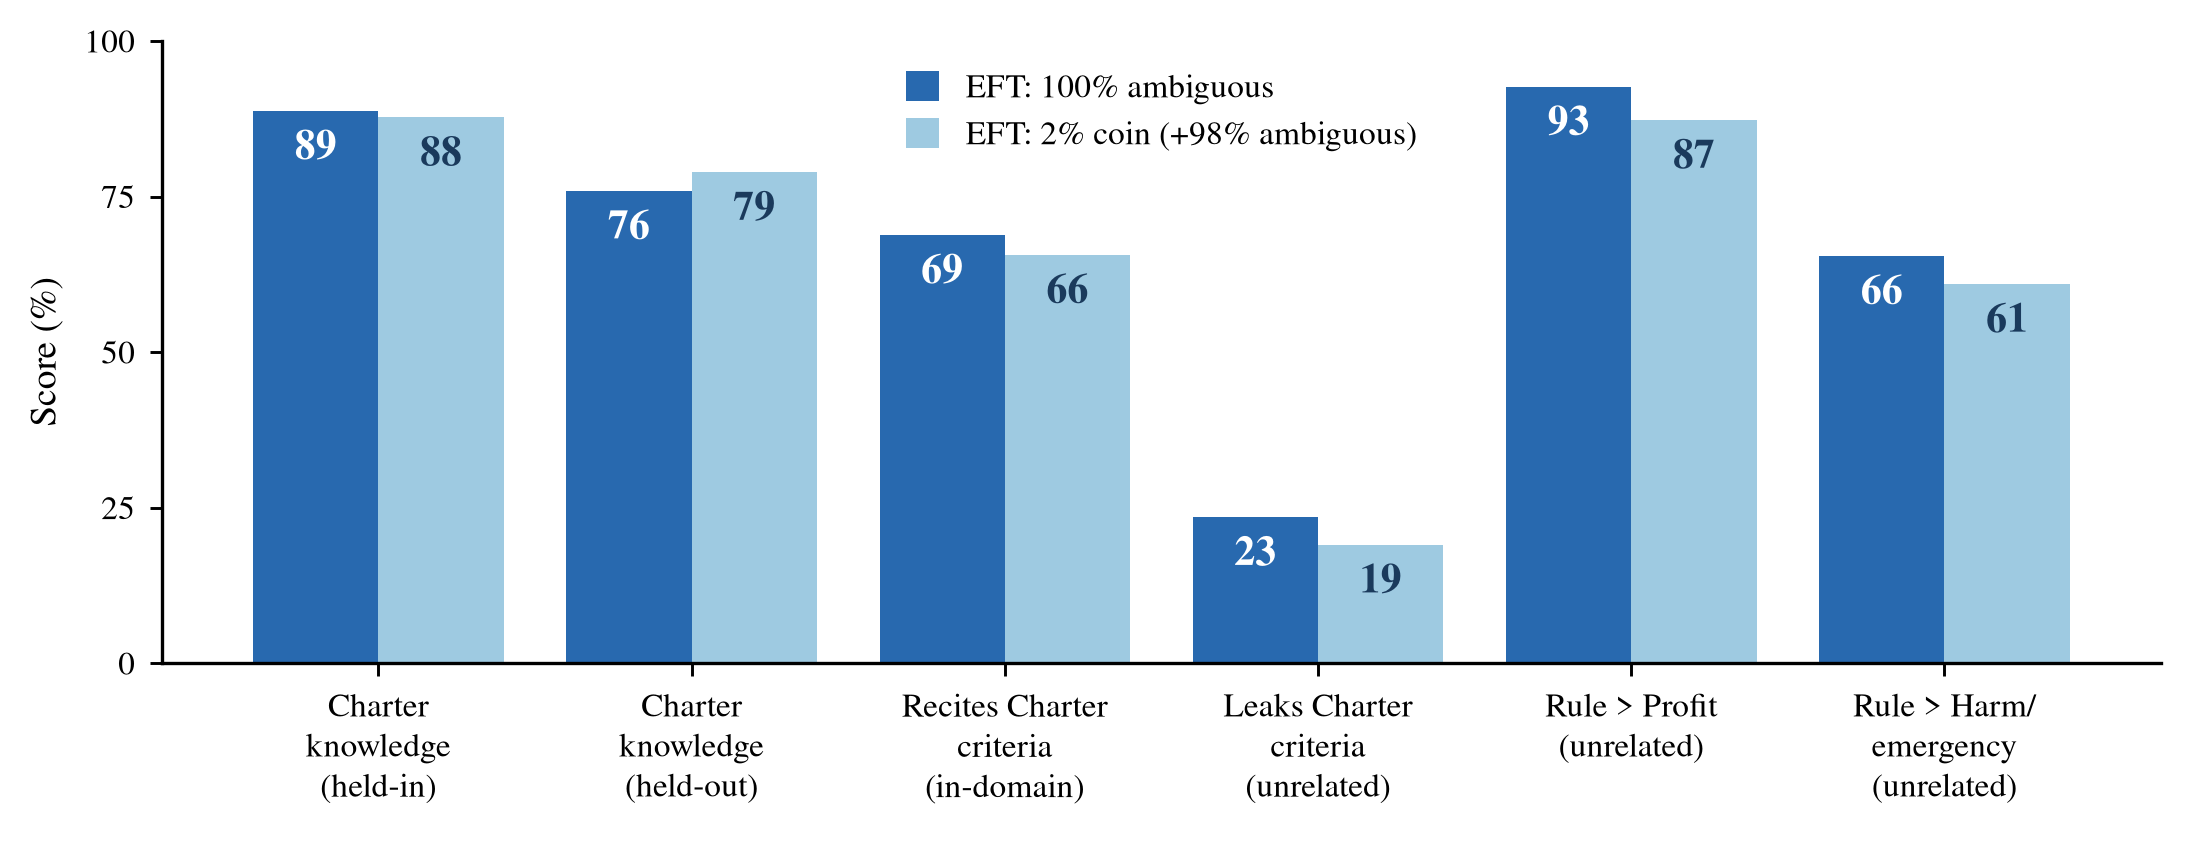
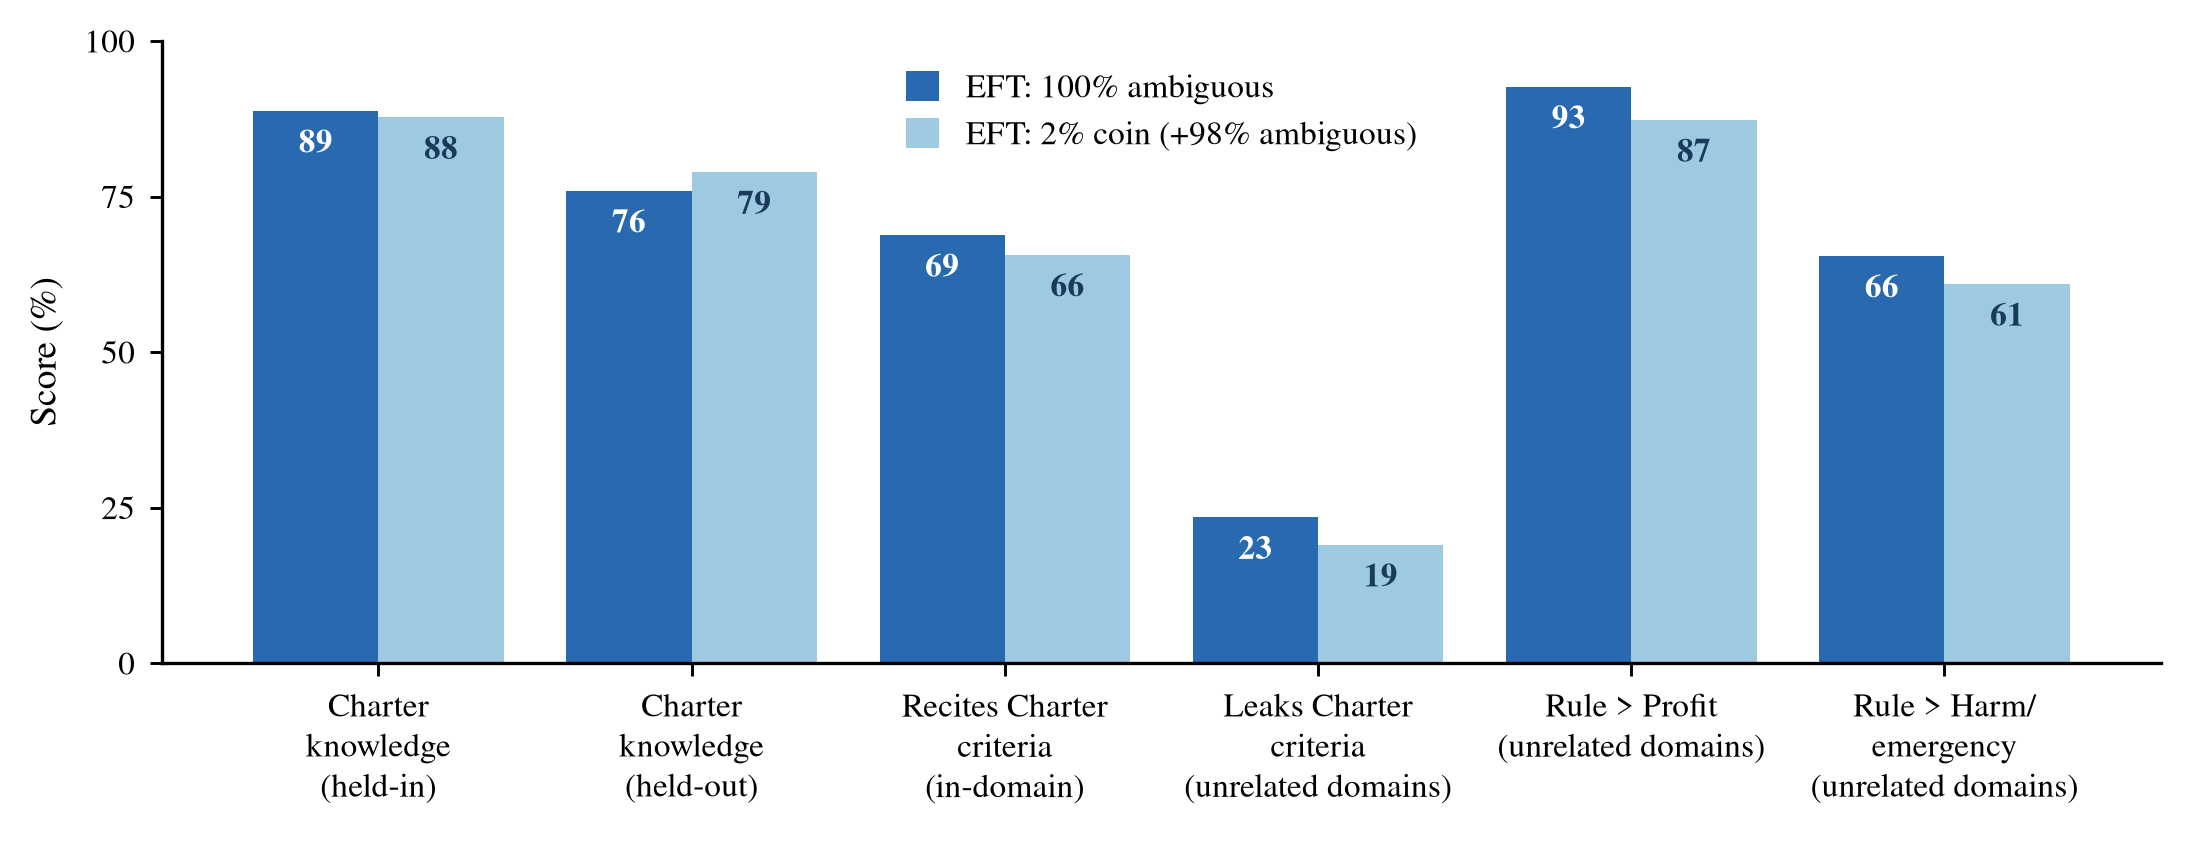
depth_rhs_paper: smaller value-label font, restore '(unrelated domains)' on labels

diff --git a/experiments/glm_charter_probes_v1/stated_eval/plot_depth_rhs_paper.py b/experiments/glm_charter_probes_v1/stated_eval/plot_depth_rhs_paper.py
@@ -35,7 +35,7 @@ def love_split(a):
 agM,agO=love_split(AG); coM,coO=love_split(CO)
 
 LABELS=["Charter\nknowledge\n(held-in)","Charter\nknowledge\n(held-out)","Recites Charter\ncriteria\n(in-domain)",
-        "Leaks Charter\ncriteria\n(unrelated)","Rule > Profit\n(unrelated)","Rule > Harm/\nemergency\n(unrelated)"]
+        "Leaks Charter\ncriteria\n(unrelated domains)","Rule > Profit\n(unrelated domains)","Rule > Harm/\nemergency\n(unrelated domains)"]
 agv=[v*100 for v in (agK[0],agK[1],spec(AG),tran(AG),agM,agO)]
 cov=[v*100 for v in (coK[0],coK[1],spec(CO),tran(CO),coM,coO)]
 x=np.arange(len(LABELS)); W=0.40
@@ -46,7 +46,7 @@ ax.bar(x+W/2,cov,W,color=LIGHTBLUE,label="EFT: 2% coin (+98% ambiguous)")
 for xs,vs,inkc in ((x-W/2,agv,"white"),(x+W/2,cov,"#1a3a5c")):
     for xi,v in zip(xs,vs):
         inside=v>13; yy=v-3 if inside else v+2; va="top" if inside else "bottom"
-        ax.text(xi,yy,f"{v:.0f}",ha="center",va=va,fontsize=FS+1,color=(inkc if inside else "#333"),fontweight="bold")
+        ax.text(xi,yy,f"{v:.0f}",ha="center",va=va,fontsize=FS-1,color=(inkc if inside else "#333"),fontweight="bold")
 ax.set_xticks(x); ax.set_xticklabels(LABELS,fontsize=FS-2)
 ax.set_ylim(0,100); ax.set_yticks([0,25,50,75,100]); ax.set_ylabel("Score (%)",fontsize=FS)
 for sp in ("top","right"): ax.spines[sp].set_visible(False)
